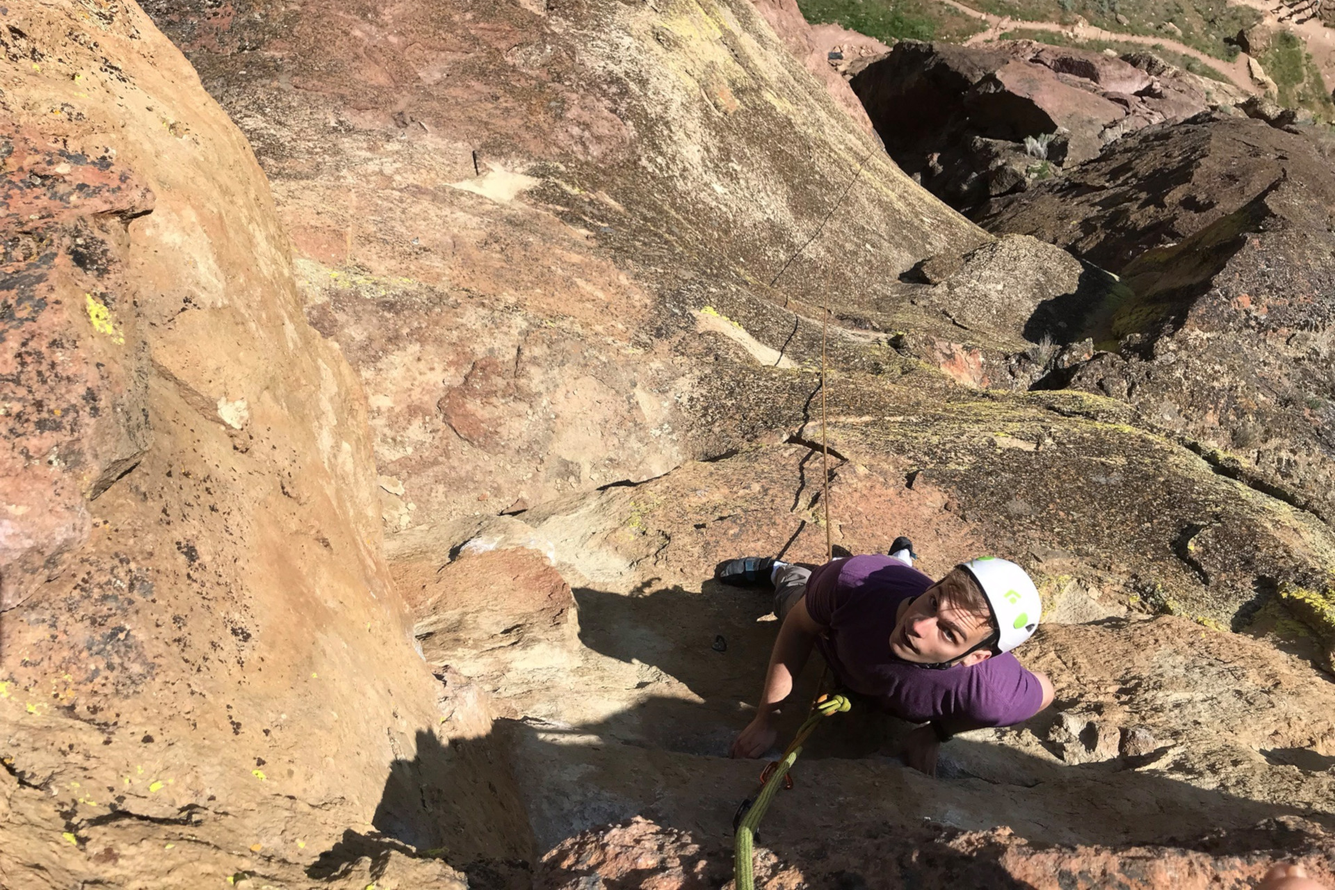
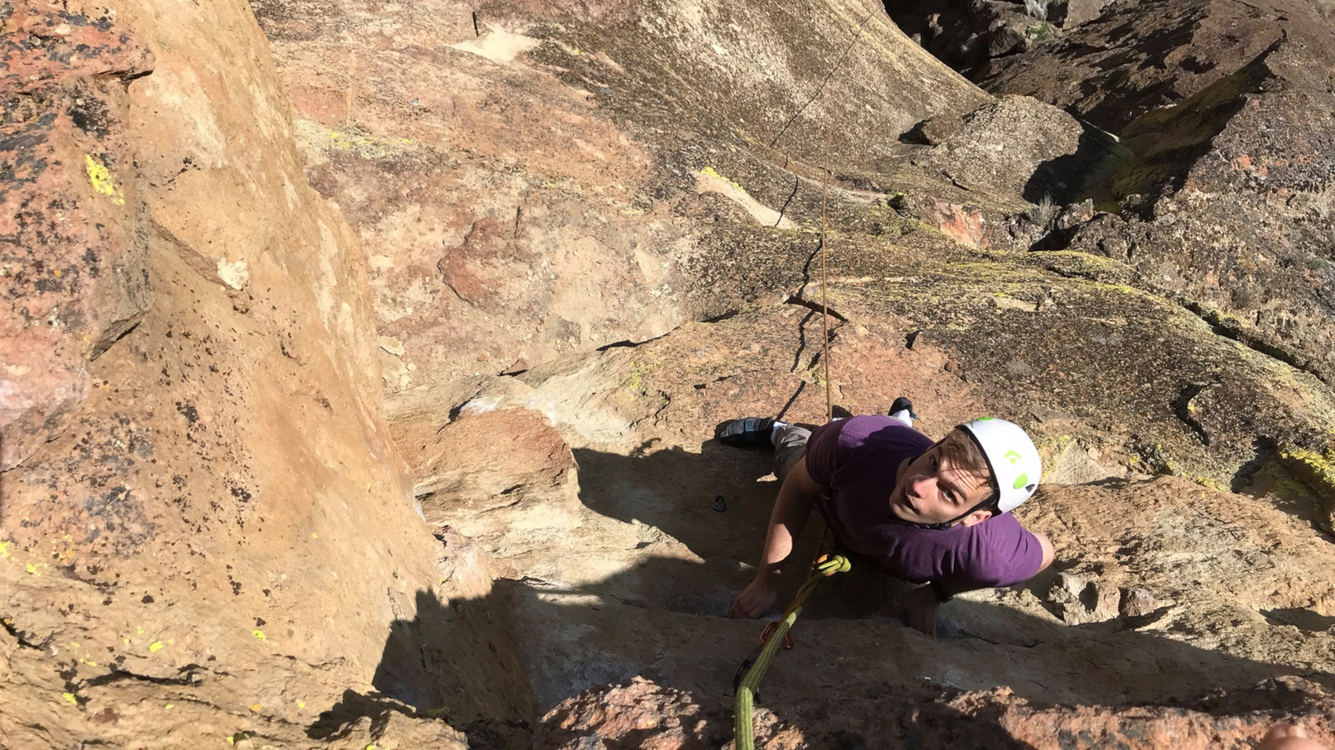
[SC] IE flipcard changes, image resize

diff --git a/src/modules/Flipcard/styles.module.scss b/src/modules/Flipcard/styles.module.scss
@@ -24,20 +24,25 @@
     width: 100%;
     height: 100%;
     text-align: center;
-    transition: transform 0.8s;
-    transform-style: preserve-3d;
 }
     
 /* Do an horizontal flip when you move the mouse over the flip box container */
-.flipCard.enabled:hover .flipCardInner {
+.flipCard.enabled:hover .flipCardFront {
     transform: rotateY(180deg);
+}
+
+.flipCard.flipCard.enabled:hover .flipCardBack {
+    transform: rotateY(0);
 }
     
 /* Position the front and back side */
-.flipCardFront, .flipCardBack {
+.flipCardFront,
+.flipCardBack {
     position: absolute;
     width: 100%;
     height: 100%;
+    transition: transform 0.8s;
+    transform-style: preserve-3d;
     -webkit-backface-visibility: hidden; /* Safari */
     backface-visibility: hidden;
 }

diff --git a/src/modules/styles.scss b/src/modules/styles.scss
@@ -19,7 +19,7 @@
     position: absolute;
     margin-top: -40px;
     margin-left: -20px;
-    width: calc(100%);
+    width: 100%;
     width: 100%;
     height: 40px;
     background-image: linear-gradient($alto, $white);
@@ -30,7 +30,7 @@
     position: absolute;
     margin-top: -40px;
     margin-left: -20px;
-    width: calc(100%);
+    width: 100%;
     height: 40px;
     background-image: linear-gradient($white, $alto);
 }
